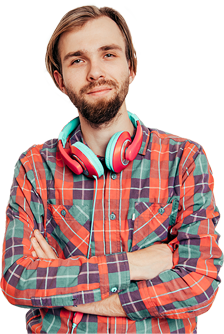
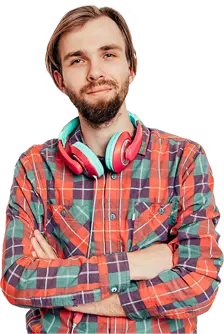
Минимизировал фото

diff --git a/build/css/all.css b/build/css/all.css
@@ -1,1 +1,1 @@
-@font-face{font-family:Roboto;font-style:normal;font-weight:400;src:local('Roboto'),local('Roboto-Regular'),url(../../fonts/roboto-v20-cyrillic_latin-regular.woff2) format('woff2'),url(../../fonts/roboto-v20-cyrillic_latin-regular.woff) format('woff');font-display:swap}@font-face{font-family:Roboto;font-style:normal;font-weight:700;src:local('Roboto Bold'),local('Roboto-Bold'),url(../../fonts/roboto-v20-cyrillic_latin-700.woff2) format('woff2'),url(../../fonts/roboto-v20-cyrillic_latin-700.woff) format('woff');font-display:swap}@font-face{font-family:Roboto;font-style:normal;font-weight:900;src:local('Roboto Black'),local('Roboto-Black'),url(../../fonts/roboto-v20-cyrillic_latin-900.woff2) format('woff2'),url(../../fonts/roboto-v20-cyrillic_latin-900.woff) format('woff');font-display:swap}@font-face{font-family:fontello;src:url(../../fonts/fontello.eot?64204630);src:url(../../fonts/fontello.woff2?64204630) format('woff2'),url(../../fonts/fontello.woff?64204630) format('woff');font-weight:400;font-style:normal;font-display:swap}[class*=" icon-"]:before,[class^=icon-]:before{font-family:fontello;font-style:normal;font-weight:400;speak:none;background:linear-gradient(13deg,rgba(255,143,90,1) 26%,rgba(255,47,150,1) 72%);-webkit-background-clip:text;color:transparent;display:inline-block;text-decoration:inherit;width:1em;margin-right:.2em;text-align:center;font-variant:normal;text-transform:none;line-height:1em;margin-left:.2em;-webkit-font-smoothing:antialiased;-moz-osx-font-smoothing:grayscale}.icon-phone:before{content:'\e800'}.icon-mail-alt:before{content:'\f0e0'}.footer{display:-webkit-box;display:-ms-flexbox;display:flex;-ms-flex-flow:nowrap;flex-flow:nowrap;-webkit-box-pack:justify;-ms-flex-pack:justify;justify-content:space-between;padding:84px 20px 60px}.footer__menu_li{display:inline-block;margin-bottom:16PX;font-weight:400;color:#8993ad;-webkit-transition:.4s;transition:.4s}.footer__menu_li:hover{color:#ff2f96}.footer__contact{padding-right:22px;padding-left:16px;margin-bottom:30px;font-size:25px;font-weight:400;color:#1f1f24;vertical-align:middle;display:block;-webkit-transition:.4s;transition:.4s}.footer__contact:hover{color:#ff2f96}.footer__contact_icon_conteiner{margin-top:20px}.footer__contact_icon{fill:#8993ad;width:30px;height:30px;-webkit-transition:.4s;transition:.4s}.footer__contact_icon:hover{fill:#ff2f96;width:30px;height:30px}.footer__contact_icon_conteiner a{margin-left:10px}.footer__contact_icon_conteiner a:last-child{margin-left:18px}.copyright{background-color:#31293c;text-align:center;padding:30px}.copyright small{font-size:16px;color:#fff}@media (max-width:1024px){.footer{padding:104px 20px 63px}.copyright small{font-size:12px}}@media (max-width:824px){.footer{-ms-flex-flow:wrap;flex-flow:wrap}.footer-contact,.footer-order-a-call,.footer__menu{margin-bottom:30px}.footer__contact{color:#8993ad;font-size:16px}}@media (max-width:425px){.footer{-webkit-box-orient:vertical;-webkit-box-direction:normal;-ms-flex-direction:column;flex-direction:column;padding:40px 20px}.footer__contact{font-size:20px;margin-bottom:22px;padding-left:0}.button__color_orange{width:280px;height:57px}.footer__contact_icon_conteiner{margin-top:54px}}.header{display:-webkit-box;display:-ms-flexbox;display:flex;-ms-flex-flow:nowrap;flex-flow:nowrap;-webkit-box-pack:justify;-ms-flex-pack:justify;justify-content:space-between;-webkit-box-align:center;-ms-flex-align:center;align-items:center;padding:26px 20px;font-weight:700}.header__nav{-webkit-box-flex:1;-ms-flex-positive:1;flex-grow:1;display:-webkit-box;display:-ms-flexbox;display:flex;-webkit-box-pack:start;-ms-flex-pack:start;justify-content:flex-start}.header__nav_menu{display:-webkit-box;display:-ms-flexbox;display:flex;-ms-flex-flow:nowrap;flex-flow:nowrap;-webkit-box-pack:justify;-ms-flex-pack:justify;justify-content:space-between}.header__nav_menu_list{margin-right:30px;-webkit-transition:.4s;transition:.4s}.header__nav_menu_list:hover{color:#ff2f96}.header__phone{margin:0 20px;font-size:26px;-webkit-transition:.4s;transition:.4s}.header__phone:hover{color:#ff2f96}.button__size_circle{display:none;width:45px;height:45px;border-radius:50%;border:1px solid #f00c6b;background-color:transparent;cursor:pointer;-webkit-transition:.4s;transition:.4s}.burger{display:none;margin-right:10px;background-color:transparent;position:relative}.burger-btn span,.burger-btn span::after,.burger-btn span::before{position:absolute;left:0;top:0;width:45px;height:6px;-webkit-transition:.4s;transition:.4s;background:linear-gradient(13deg,rgba(255,143,90,.9) 26%,rgba(255,47,150,.95) 72%)}.burger-btn span::after,.burger-btn span::before{content:''}.burger-btn span::before{-webkit-transform:translateY(-8px);transform:translateY(-8px);margin-top:-6px}.burger-btn span::after{-webkit-transform:translateY(8px);transform:translateY(8px);margin-top:6px}.burger-btn-click span{width:0;margin-left:0}.burger-btn-click span::after{-webkit-transform:rotate(45deg);transform:rotate(45deg);margin-top:0}.burger-btn-click span::before{-webkit-transform:rotate(-45deg);transform:rotate(-45deg);margin-top:0}@media (max-width:1024px){.header__nav_click{-webkit-transform:translateX(368px);transform:translateX(368px)}.header__nav{position:absolute;top:120px;left:-260px;width:250px;z-index:20;-webkit-transition:.6s linear;transition:.6s linear;background-color:#fff;-webkit-box-shadow:0 0 8px 0 rgba(0,0,0,.16);box-shadow:0 0 8px 0 rgba(0,0,0,.16)}.header__nav_menu{-webkit-box-orient:vertical;-webkit-box-direction:normal;-ms-flex-direction:column;flex-direction:column}.header__nav_menu li{width:250px;height:40px;border-bottom:1px solid #d6d6d6;text-align:center;line-height:40px}.header__phone{-webkit-box-flex:3;-ms-flex-positive:3;flex-grow:3;text-align:end}.header__nav_menu_list{font-size:22px;font-weight:400}.burger{display:inline-block;-webkit-box-flex:1;-ms-flex-positive:1;flex-grow:1}}@media (max-width:750px){.header__button{display:none}.button__size_circle{display:block}}@media (max-width:425px){.burger-btn span,.burger-btn span::after,.burger-btn span::before{width:25px;height:3px;margin-top:0}.burger-btn-click span{width:0;margin-left:0}.header__phone{font-size:16px}.button__size_circle{width:30px;height:30px}.header{padding:35px 20px}.header__nav_menu_list{font-size:20px}.header__nav_click{-webkit-transform:translateX(250px);transform:translateX(250px)}}.animate{font-size:50px;font-weight:700;position:absolute;z-index:1;-webkit-transition:-webkit-transform 10s;transition:transform 10s;transition:transform 10s,-webkit-transform 10s;background:linear-gradient(13deg,rgba(255,143,90,1) 26%,rgba(255,47,150,1) 72%);-webkit-background-clip:text;color:transparent}.animate-1{left:10%;top:10%}.animate-2{left:40%;top:50%}.animate-3{left:5%;top:40%}.animate-4{left:60%;top:40%}.animate-5{left:63%;top:50%}.main__aboutme:hover .animate-1{-webkit-transform:translate(300px,10px) rotate(80deg);transform:translate(300px,10px) rotate(80deg)}.main__aboutme:hover .animate-2{-webkit-transform:translate(-100px,250px) rotate(110deg);transform:translate(-100px,250px) rotate(110deg)}.main__aboutme:hover .animate-3{-webkit-transform:translate(150px,150px) rotate(110deg);transform:translate(150px,150px) rotate(110deg)}.main__aboutme:hover .animate-4{-webkit-transform:translate(-100px,-200px) rotate(-60deg);transform:translate(-100px,-200px) rotate(-60deg)}.main__aboutme:hover .animate-5{-webkit-transform:translate(-300px,-10px) rotate(-60deg);transform:translate(-300px,-10px) rotate(-60deg)}@media (max-width:824px){.animate{font-size:20px}.main__aboutme:hover .animate-1{-webkit-transform:translate(100px,-30px) rotate(80deg);transform:translate(100px,-30px) rotate(80deg)}.main__aboutme:hover .animate-2{-webkit-transform:translate(100px,-300px) rotate(110deg);transform:translate(100px,-300px) rotate(110deg)}.main__aboutme:hover .animate-3{-webkit-transform:translate(50px,-50px) rotate(20deg);transform:translate(50px,-50px) rotate(20deg)}.main__aboutme:hover .animate-4{-webkit-transform:translate(-150px,-150px) rotate(-60deg);transform:translate(-150px,-150px) rotate(-60deg)}.main__aboutme:hover .animate-5{-webkit-transform:translate(-50px,-80px) rotate(-60deg);transform:translate(-50px,-80px) rotate(-60deg)}}.main__aboutme{padding-top:30px;position:relative;background-color:#fbfbfb;overflow:hidden;z-index:0;-webkit-transition:-webkit-transform 20s;transition:transform 20s;transition:transform 20s,-webkit-transform 20s}.h1{margin:0;font-size:80px;font-weight:700;color:#1f1f24}.main__aboutme_conteiner{display:-webkit-box;display:-ms-flexbox;display:flex;-ms-flex-wrap:nowrap;flex-wrap:nowrap}.main__aboutme_conteiner_empty{width:76%}.main__aboutme_conteiner_text{position:relative}.main__aboutme_conteiner_text-block{position:absolute;top:-485px;left:20px;z-index:3}.main__aboutme_conteiner_ellipse{background-image:url(../../img/ellipse.svg);background-repeat:no-repeat;background-position:top left;width:58%;height:637px}.main__aboutme_foto{padding-left:50px;display:-webkit-box;display:-ms-flexbox;display:flex;-webkit-box-align:end;-ms-flex-align:end;align-items:flex-end;position:relative;z-index:2}.main__aboutme_conteiner_text-block p{font-size:25px;font-weight:400;color:#8993ad}.main__button_color_orange{display:inline-block;margin:30px 0;width:268px;height:60px;background-color:#ff4e2e;line-height:66px;border-radius:2px;font-size:18px;font-weight:400;cursor:pointer;color:#fff;text-align:center;vertical-align:middle;-webkit-transition:.4s;transition:.4s}.main__button_color_orange:hover{background:#ff2f96}.main__i-do{font-size:54px;font-weight:700;color:#262626;display:-webkit-box;display:-ms-flexbox;display:flex;-webkit-box-orient:vertical;-webkit-box-direction:normal;-ms-flex-direction:column;flex-direction:column;-webkit-box-align:center;-ms-flex-align:center;align-items:center;-ms-flex-pack:distribute;justify-content:space-around}.main__item_header{font-size:54px;font-weight:700;color:#262626;padding:90px 20px;text-align:center}.main__i-do_skills{width:100%;display:-webkit-box;display:-ms-flexbox;display:flex;-ms-flex-wrap:wrap;flex-wrap:wrap;-webkit-box-pack:justify;-ms-flex-pack:justify;justify-content:space-between}.main__i-do_skills li{width:22%;margin-bottom:16px;display:-webkit-box;display:-ms-flexbox;display:flex;-webkit-box-orient:vertical;-webkit-box-direction:normal;-ms-flex-direction:column;flex-direction:column;-webkit-box-align:center;-ms-flex-align:center;align-items:center}.main__i-do_skills img{width:80px;height:80px}.main__i-do_skills p{width:300px;font-size:20px;line-height:30px;font-weight:400;color:#8993ad;text-align:center;margin:15px 0 40px}.main__portfolio{display:-webkit-box;display:-ms-flexbox;display:flex;-webkit-box-orient:vertical;-webkit-box-direction:normal;-ms-flex-direction:column;flex-direction:column;-webkit-box-align:center;-ms-flex-align:center;align-items:center;-ms-flex-pack:distribute;justify-content:space-around;background-color:#fbfbfb;margin:75px 0 0;padding-bottom:100px}.main__portfolio_slider{width:100%;padding:0 30px 93px}.main__portfolio_item_header{margin-top:42px;text-align:center;font-size:20px;color:#8993ad}.owl-dots{text-align:center;margin-top:10px}.owl-dot{width:18px;height:18px;border-radius:50%;margin:0 4px}button.active{background:#ff4e2e}.owl-nav{position:relative}.owl-nav button{position:absolute;top:-231px;width:60px;height:60px;border-radius:50%;background-color:#fff;-webkit-box-shadow:0 0 20px 0 rgba(0,0,0,.17);box-shadow:0 0 20px 0 rgba(0,0,0,.17)}.owl-prev{left:-32px}.owl-next{right:-32px}.main__price{width:100%;background:linear-gradient(13deg,#ff8f5a 26%,#ff2f96 72%);display:-webkit-box;display:-ms-flexbox;display:flex;-webkit-box-pack:center;-ms-flex-pack:center;justify-content:center;-webkit-box-align:center;-ms-flex-align:center;align-items:center;position:relative;z-index:0;overflow:hidden;color:#fff}.main__price_conteiner{padding-bottom:58px;position:relative;z-index:3}.main__price_conteiner_header{margin:72px 70px 15px 115px;font-size:45px;line-height:60px;font-weight:700;color:#fff}.main__price_conteiner_small{padding:18px 283px 20px 113px;font-size:20px;line-height:30px;display:-webkit-box;display:-ms-flexbox;display:flex;-ms-flex-wrap:nowrap;flex-wrap:nowrap}.main__price_conteiner_small small{margin-left:10px}.animate-price{font-size:30px;font-weight:700;position:absolute;z-index:1;-webkit-transition:10s;transition:10s;color:#fff}.animate-price-1{left:70%;top:10%;-webkit-transform:rotate(60deg);transform:rotate(60deg)}.animate-price-2{left:10%;top:30%;-webkit-transform:rotate(25deg);transform:rotate(25deg)}.animate-price-3{right:10%;bottom:10%;-webkit-transform:rotate(-30deg);transform:rotate(-30deg)}.animate-price-4{left:20%;bottom:10%;-webkit-transform:rotate(62deg);transform:rotate(62deg)}.animate-price-5{-webkit-transform:rotate(62deg);transform:rotate(62deg)}.main__price:hover .animate-price-1{-webkit-transform:translate(-150px,10px) rotate(180deg);transform:translate(-150px,10px) rotate(180deg);opacity:1}.main__price:hover .animate-price-2{-webkit-transform:translate(100px,-100px) rotate(110deg);transform:translate(100px,-100px) rotate(110deg);opacity:1}.main__price:hover .animate-price-3{-webkit-transform:translate(-100px,-50px) rotate(-80deg);transform:translate(-100px,-50px) rotate(-80deg);opacity:1}.main__price:hover .animate-price-4{-webkit-transform:translate(200px,50px) rotate(-60deg);transform:translate(200px,50px) rotate(-60deg);opacity:1}.main__price:hover .animate-price-5{-webkit-transform:translate(200px,10px) rotate(-60deg);transform:translate(200px,10px) rotate(-60deg);opacity:1}@media (max-width:1224px){.h1{font-size:60px}}@media (max-width:1170px){.main__aboutme_conteiner_ellipse{width:80%}.main__i-do_skills li{width:50%}}@media (max-width:1024px){.main__aboutme{background-color:#fff}.h1{font-size:51px;line-height:40px;margin-top:50px}.main__aboutme_conteiner_text-block{top:-442px}.main__aboutme_foto{padding-left:28px}.main__aboutme_conteiner_text-block p{padding-top:20px}.main__button_color_orange{width:320px;height:70px;line-height:70px}.main__portfolio{margin-top:90px;padding:10px 0 90px}.main__portfolio_item_header{margin-top:18px;text-align:center;font-size:25px}.owl-dots{margin-top:104px}.main__portfolio_slider{padding:0 30px 100px}.button__color_orange{width:320px;height:70px}.main__price_conteiner_header{margin:80px 0 15px}.main__price_conteiner_small{padding:18px 190px 20px 0}}@media (max-width:1000px){.main__aboutme_conteiner_ellipse{width:100%}.main__aboutme_conteiner_text-block{position:static;display:-webkit-box;display:-ms-flexbox;display:flex;-webkit-box-orient:vertical;-webkit-box-direction:normal;-ms-flex-direction:column;flex-direction:column;-webkit-box-align:center;-ms-flex-align:center;align-items:center}.main__aboutme_conteiner_empty{display:none}picture{display:-webkit-box;display:-ms-flexbox;display:flex;-webkit-box-pack:center;-ms-flex-pack:center;justify-content:center}}@media (max-width:750px){.main__aboutme_conteiner_ellipse{height:380px;background-position:10px 90px;background-size:cover}picture{height:100%;-webkit-box-align:end;-ms-flex-align:end;align-items:flex-end}.main__aboutme_conteiner_text-block p{font-size:16px;text-align:center}.main__aboutme{padding-top:0}.main__button_color_orange{font-size:16px}.main__item_header{font-size:30px;padding:30px 20px}.main__i-do_skills li{width:100%}.main__i-do_skills p{font-size:16px;line-height:24px}.main__price_conteiner_header{font-size:35px;line-height:54px}.main__price_conteiner_small{padding:18px 0}.animate-price{font-size:18px}}@media (max-width:425px){.h1{font-size:27px;margin-top:12px}.main__aboutme_conteiner_ellipse{background-position:-50px 80px}.main__aboutme_conteiner_text-block p{padding-top:10px}.main__button_color_orange{width:280px;height:54px;line-height:54px}.main__item_header{padding:18px 20px 40px}.main__i-do_skills img{width:60px;height:60px}.main__i-do_skills p{margin:10px 0 40px}.main__i-do_skills li{margin-bottom:13px}.main__portfolio{margin-top:5px}.main__portfolio_item_header{margin-top:52px;font-size:18px}.owl-dots{margin-top:40px}.owl-dot{width:10px;height:10px}.main__portfolio_slider{padding:0 30px 48px}.main__portfolio{padding:10px 0 47px}.main__price_conteiner_header{margin:40px 0 15px;font-size:28px;line-height:40px}.main__price_conteiner{padding-bottom:0}}/*! normalize.css v8.0.1 | MIT License | github.com/necolas/normalize.css */html{line-height:1.15;-webkit-text-size-adjust:100%}body{margin:0}details,main{display:block}h1{font-size:2em;margin:.67em 0}hr{-webkit-box-sizing:content-box;box-sizing:content-box;height:0;overflow:visible}code,kbd,pre,samp{font-family:monospace,monospace;font-size:1em}a{background-color:transparent;text-decoration:none;color:#000}abbr[title]{border-bottom:none;text-decoration:underline;-webkit-text-decoration:underline dotted;text-decoration:underline dotted}b,strong{font-weight:bolder}small{font-size:80%}sub,sup{font-size:75%;line-height:0;position:relative;vertical-align:baseline}sub{bottom:-.25em}sup{top:-.5em}img{border-style:none}button,input,optgroup,select,textarea{font-family:inherit;font-size:100%;line-height:1.15;margin:0}button,input{overflow:visible}button,select{text-transform:none}[type=button],[type=reset],[type=submit],button{-webkit-appearance:button}[type=button]::-moz-focus-inner,[type=reset]::-moz-focus-inner,[type=submit]::-moz-focus-inner,button::-moz-focus-inner{border-style:none;padding:0}[type=button]:-moz-focusring,[type=reset]:-moz-focusring,[type=submit]:-moz-focusring,button:-moz-focusring{outline:ButtonText dotted 1px}fieldset{padding:.35em .75em .625em}legend{-webkit-box-sizing:border-box;box-sizing:border-box;color:inherit;display:table;max-width:100%;padding:0;white-space:normal}progress{vertical-align:baseline}textarea{overflow:auto}[type=checkbox],[type=radio]{-webkit-box-sizing:border-box;box-sizing:border-box;padding:0}[type=number]::-webkit-inner-spin-button,[type=number]::-webkit-outer-spin-button{height:auto}[type=search]{-webkit-appearance:textfield;outline-offset:-2px}[type=search]::-webkit-search-decoration{-webkit-appearance:none}::-webkit-file-upload-button{-webkit-appearance:button;font:inherit}summary{display:list-item}[hidden],template{display:none}.popup__html_fixed{overflow:hidden}.popup__body_fixed{overflow:scroll}.popup{display:none;position:fixed;left:0;top:0;width:100%;height:100%;text-align:center;z-index:10}.popup::after{content:'';display:inline-block;vertical-align:middle;width:0;height:100%}.popup__form{display:none;background-color:#fff;border-radius:5px;vertical-align:middle;position:relative}.popup__form_size_desktop{width:500px;padding:20px 0}.popup__button_close{position:absolute;font-size:18px}.popup__button_close_out{right:-20px;top:-20px;color:#fff}@media (max-width :624px){.popup__form_size_desktop{width:300px;height:400px;padding:20px}.popup__button_close_out{right:10px;top:10px;color:red}}.popup__header{margin-bottom:40px}.popup__form_label{width:300px;margin:20px auto;display:-webkit-box;display:-ms-flexbox;display:flex;-webkit-box-pack:justify;-ms-flex-pack:justify;justify-content:space-between;-webkit-box-align:center;-ms-flex-align:center;align-items:center}.popup__form_input{width:200px;height:30px;padding:0 10px;border:1px solid grey;border-radius:2px}@media (max-width :624px){.popup__form_label{width:200px;-webkit-box-orient:vertical;-webkit-box-direction:normal;-ms-flex-direction:column;flex-direction:column;-webkit-box-align:start;-ms-flex-align:start;align-items:flex-start}.popup__header{margin-top:20px}}.popup__form_pattern{color:red}.popup__button{margin-top:20px}.popup__alert{display:none;width:280px;padding:20px 30px;background-color:#fff;border-radius:5px;vertical-align:middle;position:relative}.error{border:1px solid red}*{-webkit-box-sizing:border-box;box-sizing:border-box;outline:0;margin:0;padding:0}html{font-family:Roboto,sans-serif}ul{list-style:none}.conteiner{max-width:1210px;margin:0 auto;padding-left:20px;padding-right:20px}@media (max-width :1824px){.conteiner{max-width:1200px}}@media (max-width :1224px){.conteiner{max-width:1000px}}@media (max-width :1024px){.conteiner{max-width:985px}}@media (max-width :824px){.conteiner{max-width:600px}}@media (max-width :624px){.conteiner{max-width:none}}.visually-hidden{position:absolute!important;clip:rect(1px,1px,1px,1px);padding:0!important;border:0!important;height:1px!important;width:1px!important;overflow:hidden}.gradient__background{background:linear-gradient(13deg,rgba(255,143,90,.95) 26%,rgba(255,47,150,.95) 72%)}.gradient__text{background:linear-gradient(13deg,#ff8f5a 26%,#ff2f96 72%);-webkit-background-clip:text;color:transparent}.button{width:208px;height:45px;cursor:pointer}.button__colir_gradient{border:none;border-radius:2px;background:linear-gradient(13deg,#ff8f5a 26%,#ff2f96 72%);color:#fff}.button__color_white{border:1px solid #ff2f96;border-radius:2px;background:0 0;color:#ff2f96;-webkit-transition:.4s;transition:.4s}.button__color_white:hover{background:#ff2f96;color:#fff}.button__color_orange{background-color:#ff4e2e;color:#fff;border:none;width:268px;height:60px;cursor:pointer}@media (max-width :425px){.button__color_orange{width:280px;height:57px}}
+@font-face{font-family:Roboto;font-style:normal;font-weight:400;src:local('Roboto'),local('Roboto-Regular'),url(../../fonts/roboto-v20-cyrillic_latin-regular.woff2) format('woff2'),url(../../fonts/roboto-v20-cyrillic_latin-regular.woff) format('woff');font-display:swap}@font-face{font-family:Roboto;font-style:normal;font-weight:700;src:local('Roboto Bold'),local('Roboto-Bold'),url(../../fonts/roboto-v20-cyrillic_latin-700.woff2) format('woff2'),url(../../fonts/roboto-v20-cyrillic_latin-700.woff) format('woff');font-display:swap}@font-face{font-family:Roboto;font-style:normal;font-weight:900;src:local('Roboto Black'),local('Roboto-Black'),url(../../fonts/roboto-v20-cyrillic_latin-900.woff2) format('woff2'),url(../../fonts/roboto-v20-cyrillic_latin-900.woff) format('woff');font-display:swap}@font-face{font-family:fontello;src:url(../../fonts/fontello.eot?64204630);src:url(../../fonts/fontello.woff2?64204630) format('woff2'),url(../../fonts/fontello.woff?64204630) format('woff');font-weight:400;font-style:normal;font-display:swap}[class*=" icon-"]:before,[class^=icon-]:before{font-family:fontello;font-style:normal;font-weight:400;speak:none;background:linear-gradient(13deg,rgba(255,143,90,1) 26%,rgba(255,47,150,1) 72%);-webkit-background-clip:text;color:transparent;display:inline-block;text-decoration:inherit;width:1em;margin-right:.2em;text-align:center;font-variant:normal;text-transform:none;line-height:1em;margin-left:.2em;-webkit-font-smoothing:antialiased;-moz-osx-font-smoothing:grayscale}.icon-phone:before{content:'\e800'}.icon-mail-alt:before{content:'\f0e0'}.footer{display:-webkit-box;display:-ms-flexbox;display:flex;-ms-flex-flow:nowrap;flex-flow:nowrap;-webkit-box-pack:justify;-ms-flex-pack:justify;justify-content:space-between;padding:84px 20px 60px}.footer__menu_li{display:inline-block;margin-bottom:16PX;font-weight:400;color:#8993ad;-webkit-transition:.4s;transition:.4s}.footer__menu_li:hover{color:#ff2f96}.footer__contact{padding-right:22px;padding-left:16px;margin-bottom:30px;font-size:25px;font-weight:400;color:#1f1f24;vertical-align:middle;display:block;-webkit-transition:.4s;transition:.4s}.footer__contact:hover{color:#ff2f96}.footer__contact_icon_conteiner{margin-top:20px}.footer__contact_icon{fill:#8993ad;width:30px;height:30px;-webkit-transition:.4s;transition:.4s}.footer__contact_icon:hover{fill:#ff2f96;width:30px;height:30px}.footer__contact_icon_conteiner a{margin-left:10px}.footer__contact_icon_conteiner a:last-child{margin-left:18px}.copyright{background-color:#31293c;text-align:center;padding:30px}.copyright small{font-size:16px;color:#fff}@media (max-width:1024px){.footer{padding:104px 20px 63px}.copyright small{font-size:12px}}@media (max-width:824px){.footer{-ms-flex-flow:wrap;flex-flow:wrap}.footer-contact,.footer-order-a-call,.footer__menu{margin-bottom:30px}.footer__contact{color:#8993ad;font-size:16px}}@media (max-width:425px){.footer{-webkit-box-orient:vertical;-webkit-box-direction:normal;-ms-flex-direction:column;flex-direction:column;padding:40px 20px}.footer__contact{font-size:20px;margin-bottom:22px;padding-left:0}.button__color_orange{width:280px;height:57px}.footer__contact_icon_conteiner{margin-top:54px}}.header{display:-webkit-box;display:-ms-flexbox;display:flex;-ms-flex-flow:nowrap;flex-flow:nowrap;-webkit-box-pack:justify;-ms-flex-pack:justify;justify-content:space-between;-webkit-box-align:center;-ms-flex-align:center;align-items:center;padding:26px 20px;font-weight:700}.header__nav{-webkit-box-flex:1;-ms-flex-positive:1;flex-grow:1;display:-webkit-box;display:-ms-flexbox;display:flex;-webkit-box-pack:start;-ms-flex-pack:start;justify-content:flex-start}.header__nav_menu{display:-webkit-box;display:-ms-flexbox;display:flex;-ms-flex-flow:nowrap;flex-flow:nowrap;-webkit-box-pack:justify;-ms-flex-pack:justify;justify-content:space-between}.header__nav_menu_list{margin-right:30px;-webkit-transition:.4s;transition:.4s}.header__nav_menu_list:hover{color:#ff2f96}.header__phone{margin:0 20px;font-size:26px;-webkit-transition:.4s;transition:.4s}.header__phone:hover{color:#ff2f96}.button__size_circle{display:none;width:45px;height:45px;border-radius:50%;border:1px solid #f00c6b;background-color:transparent;cursor:pointer;-webkit-transition:.4s;transition:.4s}.burger{display:none;margin-right:10px;background-color:transparent;position:relative}.burger-btn span,.burger-btn span::after,.burger-btn span::before{position:absolute;left:0;top:0;width:45px;height:6px;-webkit-transition:.4s;transition:.4s;background:linear-gradient(13deg,rgba(255,143,90,.9) 26%,rgba(255,47,150,.95) 72%)}.burger-btn span::after,.burger-btn span::before{content:''}.burger-btn span::before{-webkit-transform:translateY(-8px);transform:translateY(-8px);margin-top:-6px}.burger-btn span::after{-webkit-transform:translateY(8px);transform:translateY(8px);margin-top:6px}.burger-btn-click span{width:0;margin-left:0}.burger-btn-click span::after{-webkit-transform:rotate(45deg);transform:rotate(45deg);margin-top:0}.burger-btn-click span::before{-webkit-transform:rotate(-45deg);transform:rotate(-45deg);margin-top:0}@media (max-width:1024px){.header__nav_click{-webkit-transform:translateX(368px);transform:translateX(368px)}.header__nav{position:absolute;top:120px;left:-260px;width:250px;z-index:20;-webkit-transition:.6s linear;transition:.6s linear;background-color:#fff;-webkit-box-shadow:0 0 8px 0 rgba(0,0,0,.16);box-shadow:0 0 8px 0 rgba(0,0,0,.16)}.header__nav_menu{-webkit-box-orient:vertical;-webkit-box-direction:normal;-ms-flex-direction:column;flex-direction:column}.header__nav_menu li{width:250px;height:40px;border-bottom:1px solid #d6d6d6;text-align:center;line-height:40px}.header__phone{-webkit-box-flex:3;-ms-flex-positive:3;flex-grow:3;text-align:end}.header__nav_menu_list{font-size:22px;font-weight:400}.burger{display:inline-block;-webkit-box-flex:1;-ms-flex-positive:1;flex-grow:1}}@media (max-width:750px){.header__button{display:none}.button__size_circle{display:block}}@media (max-width:425px){.burger-btn span,.burger-btn span::after,.burger-btn span::before{width:25px;height:3px;margin-top:0}.burger-btn-click span{width:0;margin-left:0}.header__phone{font-size:16px}.button__size_circle{width:30px;height:30px}.header{padding:35px 20px}.header__nav_menu_list{font-size:20px}.header__nav_click{-webkit-transform:translateX(250px);transform:translateX(250px)}}.animate{font-size:50px;font-weight:700;position:absolute;z-index:1;-webkit-transition:-webkit-transform 10s;transition:transform 10s;transition:transform 10s,-webkit-transform 10s;background:linear-gradient(13deg,rgba(255,143,90,1) 26%,rgba(255,47,150,1) 72%);-webkit-background-clip:text;color:transparent}.animate-1{left:10%;top:10%}.animate-2{left:40%;top:50%}.animate-3{left:5%;top:40%}.animate-4{left:60%;top:40%}.animate-5{left:63%;top:50%}.main__aboutme:hover .animate-1{-webkit-transform:translate(300px,10px) rotate(80deg);transform:translate(300px,10px) rotate(80deg)}.main__aboutme:hover .animate-2{-webkit-transform:translate(-100px,250px) rotate(110deg);transform:translate(-100px,250px) rotate(110deg)}.main__aboutme:hover .animate-3{-webkit-transform:translate(150px,150px) rotate(110deg);transform:translate(150px,150px) rotate(110deg)}.main__aboutme:hover .animate-4{-webkit-transform:translate(-100px,-200px) rotate(-60deg);transform:translate(-100px,-200px) rotate(-60deg)}.main__aboutme:hover .animate-5{-webkit-transform:translate(-300px,-10px) rotate(-60deg);transform:translate(-300px,-10px) rotate(-60deg)}@media (max-width:824px){.animate{font-size:20px}.main__aboutme:hover .animate-1{-webkit-transform:translate(100px,-30px) rotate(80deg);transform:translate(100px,-30px) rotate(80deg)}.main__aboutme:hover .animate-2{-webkit-transform:translate(100px,-300px) rotate(110deg);transform:translate(100px,-300px) rotate(110deg)}.main__aboutme:hover .animate-3{-webkit-transform:translate(50px,-50px) rotate(20deg);transform:translate(50px,-50px) rotate(20deg)}.main__aboutme:hover .animate-4{-webkit-transform:translate(-150px,-150px) rotate(-60deg);transform:translate(-150px,-150px) rotate(-60deg)}.main__aboutme:hover .animate-5{-webkit-transform:translate(-50px,-80px) rotate(-60deg);transform:translate(-50px,-80px) rotate(-60deg)}}.main__aboutme{padding-top:30px;position:relative;background-color:#fbfbfb;overflow:hidden;z-index:0;-webkit-transition:-webkit-transform 20s;transition:transform 20s;transition:transform 20s,-webkit-transform 20s}.h1{margin:0;font-size:80px;font-weight:700;color:#1f1f24}.main__aboutme_conteiner{display:-webkit-box;display:-ms-flexbox;display:flex;-ms-flex-wrap:nowrap;flex-wrap:nowrap}.main__aboutme_conteiner_empty{width:76%}.main__aboutme_conteiner_text{position:relative}.main__aboutme_conteiner_text-block{position:absolute;top:-485px;left:20px;z-index:3}.main__aboutme_conteiner_ellipse{background-image:url(../../img/ellipse.svg);background-repeat:no-repeat;background-position:top left;width:58%;height:637px}.main__aboutme_foto{padding-left:50px;display:-webkit-box;display:-ms-flexbox;display:flex;-webkit-box-align:end;-ms-flex-align:end;align-items:flex-end;position:relative;z-index:2}.main__aboutme_conteiner_text-block p{font-size:25px;font-weight:400;color:#8993ad}.main__button_color_orange{display:inline-block;margin:30px 0;width:268px;height:60px;background-color:#ff4e2e;line-height:66px;border-radius:2px;font-size:18px;font-weight:400;cursor:pointer;color:#fff;text-align:center;vertical-align:middle;-webkit-transition:.4s;transition:.4s}.main__button_color_orange:hover{background:#ff2f96}.main__i-do{font-size:54px;font-weight:700;color:#262626;display:-webkit-box;display:-ms-flexbox;display:flex;-webkit-box-orient:vertical;-webkit-box-direction:normal;-ms-flex-direction:column;flex-direction:column;-webkit-box-align:center;-ms-flex-align:center;align-items:center;-ms-flex-pack:distribute;justify-content:space-around}.main__item_header{font-size:54px;font-weight:700;color:#262626;padding:90px 20px;text-align:center}.main__i-do_skills{width:100%;display:-webkit-box;display:-ms-flexbox;display:flex;-ms-flex-wrap:wrap;flex-wrap:wrap;-webkit-box-pack:justify;-ms-flex-pack:justify;justify-content:space-between}.main__i-do_skills li{width:22%;margin-bottom:16px;display:-webkit-box;display:-ms-flexbox;display:flex;-webkit-box-orient:vertical;-webkit-box-direction:normal;-ms-flex-direction:column;flex-direction:column;-webkit-box-align:center;-ms-flex-align:center;align-items:center}.main__i-do_skills img{width:80px;height:80px}.main__i-do_skills p{width:300px;font-size:20px;line-height:30px;font-weight:400;color:#8993ad;text-align:center;margin:15px 0 40px}.main__portfolio{display:-webkit-box;display:-ms-flexbox;display:flex;-webkit-box-orient:vertical;-webkit-box-direction:normal;-ms-flex-direction:column;flex-direction:column;-webkit-box-align:center;-ms-flex-align:center;align-items:center;-ms-flex-pack:distribute;justify-content:space-around;background-color:#fbfbfb;margin:75px 0 0;padding-bottom:100px}.main__portfolio_slider{width:100%;padding:0 30px 93px}.main__portfolio_item_header{margin-top:42px;text-align:center;font-size:20px;color:#8993ad}.owl-dots{text-align:center;margin-top:10px}.owl-dot{width:18px;height:18px;border-radius:50%;margin:0 4px}button.active{background:#ff4e2e}.owl-nav{position:relative}.owl-nav button{position:absolute;top:-231px;width:60px;height:60px;border-radius:50%;background-color:#fff;-webkit-box-shadow:0 0 20px 0 rgba(0,0,0,.17);box-shadow:0 0 20px 0 rgba(0,0,0,.17)}.owl-prev{left:-32px}.owl-next{right:-32px}.main__price{width:100%;background:linear-gradient(13deg,#ff8f5a 26%,#ff2f96 72%);display:-webkit-box;display:-ms-flexbox;display:flex;-webkit-box-pack:center;-ms-flex-pack:center;justify-content:center;-webkit-box-align:center;-ms-flex-align:center;align-items:center;position:relative;z-index:0;overflow:hidden;color:#fff}.main__price_conteiner{padding-bottom:58px;position:relative;z-index:3}.main__price_conteiner_header{margin:72px 70px 15px 115px;font-size:45px;line-height:60px;font-weight:700;color:#fff}.main__price_conteiner_small{padding:18px 283px 20px 113px;font-size:20px;line-height:30px;display:-webkit-box;display:-ms-flexbox;display:flex;-ms-flex-wrap:nowrap;flex-wrap:nowrap}.main__price_conteiner_small small{margin-left:10px}.animate-price{font-size:30px;font-weight:700;position:absolute;z-index:1;-webkit-transition:10s;transition:10s;color:#fff}.animate-price-1{left:70%;top:10%;-webkit-transform:rotate(60deg);transform:rotate(60deg)}.animate-price-2{left:10%;top:30%;-webkit-transform:rotate(25deg);transform:rotate(25deg)}.animate-price-3{right:10%;bottom:10%;-webkit-transform:rotate(-30deg);transform:rotate(-30deg)}.animate-price-4{left:20%;bottom:10%;-webkit-transform:rotate(62deg);transform:rotate(62deg)}.animate-price-5{-webkit-transform:rotate(62deg);transform:rotate(62deg)}.main__price:hover .animate-price-1{-webkit-transform:translate(-150px,10px) rotate(180deg);transform:translate(-150px,10px) rotate(180deg);opacity:1}.main__price:hover .animate-price-2{-webkit-transform:translate(100px,-100px) rotate(110deg);transform:translate(100px,-100px) rotate(110deg);opacity:1}.main__price:hover .animate-price-3{-webkit-transform:translate(-100px,-50px) rotate(-80deg);transform:translate(-100px,-50px) rotate(-80deg);opacity:1}.main__price:hover .animate-price-4{-webkit-transform:translate(200px,50px) rotate(-60deg);transform:translate(200px,50px) rotate(-60deg);opacity:1}.main__price:hover .animate-price-5{-webkit-transform:translate(200px,10px) rotate(-60deg);transform:translate(200px,10px) rotate(-60deg);opacity:1}@media (max-width:1224px){.h1{font-size:60px}}@media (max-width:1170px){.main__aboutme_conteiner_ellipse{width:80%}.main__i-do_skills li{width:50%}}@media (max-width:1024px){.main__aboutme{background-color:#fff}.h1{font-size:51px;line-height:40px;margin-top:50px}.main__aboutme_conteiner_text-block{top:-442px}.main__aboutme_foto{padding-left:28px}.main__aboutme_conteiner_text-block p{padding-top:20px}.main__button_color_orange{width:320px;height:70px;line-height:70px}.main__portfolio{margin-top:90px;padding:10px 0 90px}.main__portfolio_item_header{margin-top:18px;text-align:center;font-size:25px}.owl-dots{margin-top:104px}.main__portfolio_slider{padding:0 30px 100px}.button__color_orange{width:320px;height:70px}.main__price_conteiner_header{margin:80px 0 15px}.main__price_conteiner_small{padding:18px 190px 20px 0}}@media (max-width:1000px){.main__aboutme_conteiner_ellipse{width:100%}.main__aboutme_conteiner_text-block{position:static;display:-webkit-box;display:-ms-flexbox;display:flex;-webkit-box-orient:vertical;-webkit-box-direction:normal;-ms-flex-direction:column;flex-direction:column;-webkit-box-align:center;-ms-flex-align:center;align-items:center}.main__aboutme_conteiner_empty{display:none}picture{display:-webkit-box;display:-ms-flexbox;display:flex;-webkit-box-pack:center;-ms-flex-pack:center;justify-content:center}}@media (max-width:750px){.main__aboutme_conteiner_ellipse{height:380px;background-position:10px 90px;background-size:cover}picture{height:100%;-webkit-box-align:end;-ms-flex-align:end;align-items:flex-end}.main__aboutme_conteiner_text-block p{font-size:16px;text-align:center}.main__aboutme{padding-top:0}.main__button_color_orange{font-size:16px}.main__item_header{font-size:30px;padding:30px 20px}.main__i-do_skills li{width:100%}.main__i-do_skills p{font-size:16px;line-height:24px}.main__price_conteiner_header{font-size:35px;line-height:54px}.main__price_conteiner_small{padding:18px 0}.animate-price{font-size:18px}}@media (max-width:425px){.h1{font-size:27px;margin-top:12px}.main__aboutme_conteiner_ellipse{background-position:-50px 80px}.main__aboutme_conteiner_text-block p{padding-top:10px}.main__button_color_orange{width:280px;height:54px;line-height:54px}.main__item_header{padding:18px 20px 40px}.main__i-do_skills img{width:60px;height:60px}.main__i-do_skills p{margin:10px 0 40px}.main__i-do_skills li{margin-bottom:13px}.main__portfolio{margin-top:5px}.main__portfolio_item_header{margin-top:52px;font-size:18px}.owl-dots{margin-top:40px}.owl-dot{width:10px;height:10px}.main__portfolio_slider{padding:0 30px 48px}.main__portfolio{padding:10px 0 47px}.main__price_conteiner_header{margin:40px 0 15px;font-size:28px;line-height:40px}.main__price_conteiner{padding-bottom:0}}/*! normalize.css v8.0.1 | MIT License | github.com/necolas/normalize.css */html{line-height:1.15;-webkit-text-size-adjust:100%}body{margin:0}details,main{display:block}h1{font-size:2em;margin:.67em 0}hr{-webkit-box-sizing:content-box;box-sizing:content-box;height:0;overflow:visible}code,kbd,pre,samp{font-family:monospace,monospace;font-size:1em}a{background-color:transparent;text-decoration:none;color:#000}abbr[title]{border-bottom:none;text-decoration:underline;-webkit-text-decoration:underline dotted;text-decoration:underline dotted}b,strong{font-weight:bolder}small{font-size:80%}sub,sup{font-size:75%;line-height:0;position:relative;vertical-align:baseline}sub{bottom:-.25em}sup{top:-.5em}img{border-style:none}button,input,optgroup,select,textarea{font-family:inherit;font-size:100%;line-height:1.15;margin:0}button,input{overflow:visible}button,select{text-transform:none}[type=button],[type=reset],[type=submit],button{-webkit-appearance:button}[type=button]::-moz-focus-inner,[type=reset]::-moz-focus-inner,[type=submit]::-moz-focus-inner,button::-moz-focus-inner{border-style:none;padding:0}[type=button]:-moz-focusring,[type=reset]:-moz-focusring,[type=submit]:-moz-focusring,button:-moz-focusring{outline:ButtonText dotted 1px}fieldset{padding:.35em .75em .625em}legend{-webkit-box-sizing:border-box;box-sizing:border-box;color:inherit;display:table;max-width:100%;padding:0;white-space:normal}progress{vertical-align:baseline}textarea{overflow:auto}[type=checkbox],[type=radio]{-webkit-box-sizing:border-box;box-sizing:border-box;padding:0}[type=number]::-webkit-inner-spin-button,[type=number]::-webkit-outer-spin-button{height:auto}[type=search]{-webkit-appearance:textfield;outline-offset:-2px}[type=search]::-webkit-search-decoration{-webkit-appearance:none}::-webkit-file-upload-button{-webkit-appearance:button;font:inherit}summary{display:list-item}[hidden],template{display:none}.popup__html_fixed{overflow:hidden}.popup__body_fixed{overflow:scroll}.popup{display:none;position:fixed;left:0;top:0;width:100%;height:100%;text-align:center;z-index:10}.popup::after{content:'';display:inline-block;vertical-align:middle;width:0;height:100%}.popup__form{display:none;background-color:#fff;border-radius:5px;vertical-align:middle;position:relative}.popup__form_size_desktop{width:500px;padding:20px 0}.popup__button_close{position:absolute;font-size:18px}.popup__button_close_out{right:-20px;top:-20px;color:#fff}@media (max-width :624px){.popup__form_size_desktop{width:300px;height:400px;padding:20px}.popup__button_close_out{right:10px;top:10px;color:red}}.popup__header{margin-bottom:40px}.popup__form_label{width:300px;margin:20px auto;display:-webkit-box;display:-ms-flexbox;display:flex;-webkit-box-pack:justify;-ms-flex-pack:justify;justify-content:space-between;-webkit-box-align:center;-ms-flex-align:center;align-items:center}.popup__form_input{width:200px;height:30px;padding:0 10px;border:1px solid grey;border-radius:2px}@media (max-width :624px){.popup__form_label{width:200px;-webkit-box-orient:vertical;-webkit-box-direction:normal;-ms-flex-direction:column;flex-direction:column;-webkit-box-align:start;-ms-flex-align:start;align-items:flex-start}.popup__header{margin-top:20px}}.popup__form_pattern{color:red}.popup__button{margin-top:20px}.popup__alert{display:none;width:280px;padding:20px 30px;background-color:#fff;border-radius:5px;vertical-align:middle;position:relative}.error{border:1px solid red}*{-webkit-box-sizing:border-box;box-sizing:border-box;margin:0;padding:0}html{font-family:Roboto,sans-serif}ul{list-style:none}.conteiner{max-width:1210px;margin:0 auto;padding-left:20px;padding-right:20px}@media (max-width :1824px){.conteiner{max-width:1200px}}@media (max-width :1224px){.conteiner{max-width:1000px}}@media (max-width :1024px){.conteiner{max-width:985px}}@media (max-width :824px){.conteiner{max-width:600px}}@media (max-width :624px){.conteiner{max-width:none}}.visually-hidden{position:absolute!important;clip:rect(1px,1px,1px,1px);padding:0!important;border:0!important;height:1px!important;width:1px!important;overflow:hidden}.gradient__background{background:linear-gradient(13deg,rgba(255,143,90,.95) 26%,rgba(255,47,150,.95) 72%)}.gradient__text{background:linear-gradient(13deg,#ff8f5a 26%,#ff2f96 72%);-webkit-background-clip:text;color:transparent}.button{width:208px;height:45px;cursor:pointer}.button__colir_gradient{border:none;border-radius:2px;background:linear-gradient(13deg,#ff8f5a 26%,#ff2f96 72%);color:#fff}.button__color_white{border:1px solid #ff2f96;border-radius:2px;background:0 0;color:#ff2f96;-webkit-transition:.4s;transition:.4s}.button__color_white:hover{background:#ff2f96;color:#fff}.button__color_orange{background-color:#ff4e2e;color:#fff;border:none;width:268px;height:60px;cursor:pointer}@media (max-width :425px){.button__color_orange{width:280px;height:57px}}

diff --git a/index.html b/index.html
@@ -19,36 +19,7 @@
 	<meta name="theme-color" content="#ffffff">
 </head>
 <body id="body">
-	<div class="popup gradient__background">
-		<form id="form-popup" class="popup__form popup__form_size_desktop" action="mailer/smart.php" method="POST">
-			<a class="popup__button_close popup__button_close_out" href="#">&#10006;</a>
-			<h3 class="popup__header">Укажите свои данные!</h3>	
-			<label class="popup__form_label">
-				<span>
-					Имя
-					<span class="popup__form_pattern">*</span>
-				</span>
-				<input id="name" class="popup__form_input" type="text" name="name" placeholder="Имя">
-			</label>
-			<label class="popup__form_label">
-				<span>
-					Телефон
-					<span class="popup__form_pattern">*</span>
-				</span>
-				<input class="popup__form_input" type="tel" name="phone" placeholder="+7 (999) 999-99-99">
-			</label>
-			<label class="popup__form_label">
-				<span>Email</span>
-				<input class="popup__form_input" type="text" name="Email" placeholder="Email">
-			</label>
-			<button class="button button__colir_gradient popup__button">Отправить</button>
-		</form>
-		<div class="popup__alert">
-			<h3 class="popup__header">Сообщение отправлено!</h3>
-			<p>Спасибо, я свяжусь с вами в ближайшее время.</p>
-			<button class="button popup__alert_ok button__colir_gradient popup__button">Ок</button>
-		</div>
-	</div>
+	
 	<header>
 		<div class="conteiner header">
 			<nav class="header__nav burger-menu">
@@ -226,8 +197,39 @@
 			<small>&copy; Александр Корытов, 2020</small>
 		</div>
 	</footer>
+<div class="popup gradient__background">
+	<form id="form-popup" class="popup__form popup__form_size_desktop" action="mailer/smart.php" method="POST">
+		<a class="popup__button_close popup__button_close_out" href="#">&#10006;</a>
+		<h3 class="popup__header">Укажите свои данные!</h3>	
+		<label class="popup__form_label">
+			<span>
+				Имя
+				<span class="popup__form_pattern">*</span>
+			</span>
+			<input id="name" class="popup__form_input" type="text" name="name" placeholder="Имя">
+		</label>
+		<label class="popup__form_label">
+			<span>
+				Телефон
+				<span class="popup__form_pattern">*</span>
+			</span>
+			<input class="popup__form_input" type="tel" name="phone" placeholder="+7 (999) 999-99-99">
+		</label>
+		<label class="popup__form_label">
+			<span>Email</span>
+			<input class="popup__form_input" type="text" name="Email" placeholder="Email">
+		</label>
+		<button class="button button__colir_gradient popup__button">Отправить</button>
+	</form>
+	<div class="popup__alert">
+		<h3 class="popup__header">Сообщение отправлено!</h3>
+		<p>Спасибо, я свяжусь с вами в ближайшее время.</p>
+		<button class="button popup__alert_ok button__colir_gradient popup__button">Ок</button>
+	</div>
+</div>
 
 <script src="build/js/all.js"></script>
 <script src="owlcarousel/owl.carousel.min.js"></script>
+
 </body>
 </html>

diff --git a/src/css/style.css b/src/css/style.css
@@ -1,6 +1,5 @@
 * {
 	box-sizing: border-box;
-	outline: none;
 	margin: 0;
 	padding: 0;
 }
